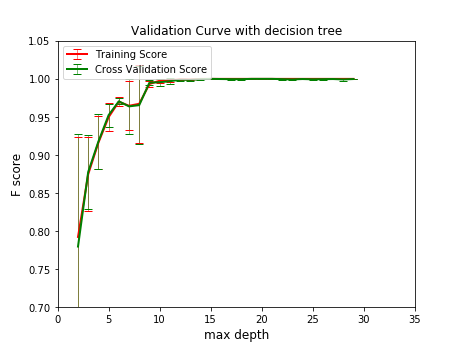
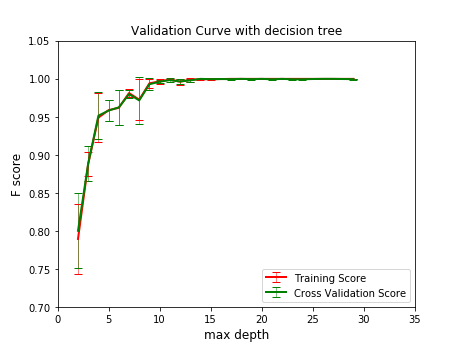
f1 score to accuracy

diff --git a/analyze_mushroom.py b/analyze_mushroom.py
@@ -51,7 +51,7 @@ def tune_kNN(X, y):
     # using validation_curve to find the optimal k value
     k_range = range(1, 11)
     train_scores, cv_scores = validation_curve(KNeighborsClassifier(), X, y, param_name='n_neighbors',
-                                               param_range=k_range, cv=folds, scoring='f1', n_jobs=4)
+                                               param_range=k_range, cv=folds, scoring='accuracy', n_jobs=4)
     train_scores_mean = np.mean(train_scores, axis=1)
     train_scores_std = np.std(train_scores, axis=1)
     cv_scores_mean = np.mean(cv_scores, axis=1)
@@ -69,15 +69,15 @@ def tune_kNN(X, y):
 
     plot_curve(k_range, train_scores_mean, train_scores_std, cv_scores_mean, cv_scores_std,
                title='Validation Curve with k-nearest neighbors', x_label='k',
-               x_lim=(0, 11), y_lim=(0.75, 1.05))
+               x_lim=(0, 11), y_lim=(0.95, 1.05))
 
     # generates learning curve
 
-    train_sizes = np.linspace(.1, 1.0, 10)
+    train_sizes = np.linspace(.1, 1.0, 5)
     # print train_sizes.shape
 
     train_sizes, train_scores_lc, cv_scores_lc = learning_curve(
-        KNeighborsClassifier(optimal_k), X, y, cv=folds, n_jobs=4, scoring='f1', train_sizes=train_sizes)
+        KNeighborsClassifier(optimal_k), X, y, cv=folds, n_jobs=4, scoring='accuracy', train_sizes=train_sizes)
 
     train_scores_mean_lc = np.mean(train_scores_lc, axis=1)
     train_scores_std_lc = np.std(train_scores_lc, axis=1)
@@ -91,7 +91,7 @@ def tune_kNN(X, y):
 
     plot_curve(train_sizes, train_scores_mean_lc, train_scores_std_lc, cv_scores_mean_lc, cv_scores_std_lc,
                title='Learning Curve with k-nearest neighbors (k=%d)' % (optimal_k), x_label='number of samples',
-               x_lim=(0, 12000), y_lim=(0.75, 1.05))
+               x_lim=(0, 12000), y_lim=(0.95, 1.05))
 
     return {'n_neighbors': optimal_k}
 
@@ -105,7 +105,7 @@ def tune_SVM_1(X, y):
     # c_range = [0.001, 0.01, 0.1]
 
     train_scores, cv_scores = validation_curve(SVC(kernel='linear'), X, y, param_name='C',
-                                               param_range=c_range, cv=folds, scoring='f1', n_jobs=4)
+                                               param_range=c_range, cv=folds, scoring='accuracy', n_jobs=4)
     train_scores_mean = np.mean(train_scores, axis=1)
     train_scores_std = np.std(train_scores, axis=1)
     cv_scores_mean = np.mean(cv_scores, axis=1)
@@ -130,7 +130,7 @@ def tune_SVM_1(X, y):
     train_sizes = np.linspace(.1, 1.0, 10)
 
     train_sizes, train_scores_lc, cv_scores_lc = learning_curve(SVC(kernel='linear'), X, y, cv=folds,
-                                                                n_jobs=4, scoring='f1', train_sizes=train_sizes)
+                                                                n_jobs=4, scoring='accuracy', train_sizes=train_sizes)
 
     train_scores_mean_lc = np.mean(train_scores_lc, axis=1)
     train_scores_std_lc = np.std(train_scores_lc, axis=1)
@@ -161,7 +161,7 @@ def tune_SVM_2(X, y):
     print gamma_range
 
     param_grid = dict(gamma=gamma_range, C=c_range)
-    grid = GridSearchCV(SVC(), param_grid=param_grid, cv=cv_s, scoring='f1', n_jobs=4)
+    grid = GridSearchCV(SVC(), param_grid=param_grid, cv=cv_s, scoring='accuracy', n_jobs=4)
     grid.fit(X, y)
 
     scores = grid.cv_results_['mean_test_score'].reshape(len(c_range), len(gamma_range))
@@ -170,7 +170,7 @@ def tune_SVM_2(X, y):
 
     # Draw heatmap of the cross validation accuracy as a function of gamma and C
     plot_heatmap(scores, gamma_range, c_range, vmin=0.2, mid=0.8, xlabel='gamma', ylabel='C',
-                 title='Cross Validation f1 score with RBF SVM')
+                 title='Cross Validation accuracy score with RBF SVM')
 
     # plot learning curve
     optimal_gamma = grid.best_params_['gamma']
@@ -178,7 +178,7 @@ def tune_SVM_2(X, y):
     train_sizes = np.linspace(.1, 1.0, 5)
 
     train_sizes, train_scores_lc, cv_scores_lc = learning_curve(SVC(gamma=optimal_gamma, C=optimal_c), X, y, cv=cv_s,
-                                                                n_jobs=4, scoring='f1', train_sizes=train_sizes)
+                                                                n_jobs=4, scoring='accuracy', train_sizes=train_sizes)
     train_scores_mean_lc = np.mean(train_scores_lc, axis=1)
     train_scores_std_lc = np.std(train_scores_lc, axis=1)
     cv_scores_mean_lc = np.mean(cv_scores_lc, axis=1)
@@ -230,7 +230,7 @@ def tune_decisionTree(X, y):
     depth_range = range(2, 30)
     train_scores, cv_scores = validation_curve(DecisionTreeClassifier(max_features='auto'), X, y,
                                                param_name='max_depth',
-                                               param_range=depth_range, cv=folds, scoring='f1', n_jobs=4)
+                                               param_range=depth_range, cv=folds, scoring='accuracy', n_jobs=4)
     train_scores_mean = np.mean(train_scores, axis=1)
     train_scores_std = np.std(train_scores, axis=1)
     cv_scores_mean = np.mean(cv_scores, axis=1)
@@ -251,11 +251,11 @@ def tune_decisionTree(X, y):
                x_lim=(0, 35), y_lim=(0.70, 1.05))
 
     # generates learning curve
-    train_sizes = np.linspace(.1, 1.0, 10)  # print train_sizes.shape
+    train_sizes = np.linspace(.1, 1.0, 5)  # print train_sizes.shape
 
     train_sizes, train_scores_lc, cv_scores_lc = learning_curve(
         DecisionTreeClassifier(max_features='auto', max_depth=optimal_max_depth),
-        X, y, cv=folds, n_jobs=4, scoring='f1', train_sizes=train_sizes)
+        X, y, cv=folds, n_jobs=4, scoring='accuracy', train_sizes=train_sizes)
     train_scores_mean_lc = np.mean(train_scores_lc, axis=1)
     train_scores_std_lc = np.std(train_scores_lc, axis=1)
     cv_scores_mean_lc = np.mean(cv_scores_lc, axis=1)
@@ -268,7 +268,7 @@ def tune_decisionTree(X, y):
 
     plot_curve(train_sizes, train_scores_mean_lc, train_scores_std_lc, cv_scores_mean_lc, cv_scores_std_lc,
                title='Learning Curve with decision tree (max depth = %d)' % (optimal_max_depth),
-               x_label='number of samples', x_lim=(0, 12000), y_lim=(0.70, 1.05))
+               x_label='number of samples', x_lim=(0, 12000), y_lim=(0.95, 1.05))
 
     return {'max_depth': optimal_max_depth}
 
@@ -285,16 +285,16 @@ def tune_boost(X, y):
 
     param_grid = dict(n_estimators=n_estimators_range, learning_rate=rate_range)
     base = DecisionTreeClassifier(max_depth=3)
-    grid = GridSearchCV(AdaBoostClassifier(base_estimator=base), param_grid=param_grid, cv=cv_s, scoring='f1', n_jobs=4)
+    grid = GridSearchCV(AdaBoostClassifier(base_estimator=base), param_grid=param_grid, cv=cv_s, scoring='accuracy', n_jobs=4)
     grid.fit(X, y)
 
     scores = grid.cv_results_['mean_test_score'].reshape(len(rate_range), len(n_estimators_range))
     # print scores
-    print("The best parameters are %s with a F score of %0.5f" % (grid.best_params_, grid.best_score_))
+    print("The best parameters are %s with an accuracy of %0.5f" % (grid.best_params_, grid.best_score_))
 
     # Draw heatmap of the cross validation accuracy as a function of gamma and C
     plot_heatmap(scores, n_estimators_range, rate_range, vmin=0.5, mid=0.85, xlabel='n_estimators',
-                 ylabel='learning_rate', title='Cross Validation f1 score with Adaboosting')
+                 ylabel='learning_rate', title='Cross Validation accuracy score with Adaboosting')
 
     # plot learning curve
     optimal_n_estimators = grid.best_params_['n_estimators']
@@ -303,7 +303,7 @@ def tune_boost(X, y):
 
     train_sizes, train_scores_lc, cv_scores_lc = learning_curve(
         AdaBoostClassifier(base_estimator=base, n_estimators=optimal_n_estimators, learning_rate=optimal_lr),
-        X, y, cv=cv_s, n_jobs=4, scoring='f1', train_sizes=train_sizes)
+        X, y, cv=cv_s, n_jobs=4, scoring='accuracy', train_sizes=train_sizes)
     train_scores_mean_lc = np.mean(train_scores_lc, axis=1)
     train_scores_std_lc = np.std(train_scores_lc, axis=1)
     cv_scores_mean_lc = np.mean(cv_scores_lc, axis=1)
@@ -334,16 +334,16 @@ def tune_NN(X, y):
     print alpha_range
 
     param_grid = dict(hidden_layer_sizes=hidden_layer_sizes_range, alpha=alpha_range)
-    grid = GridSearchCV(MLPClassifier(), param_grid=param_grid, cv=cv_s, scoring='f1', n_jobs=4)
+    grid = GridSearchCV(MLPClassifier(), param_grid=param_grid, cv=cv_s, scoring='accuracy', n_jobs=4)
     grid.fit(X, y)
 
     scores = grid.cv_results_['mean_test_score'].reshape(len(alpha_range), len(hidden_layer_sizes_range))
     # print scores
-    print("The best parameters are %s with a F score of %0.5f" % (grid.best_params_, grid.best_score_))
+    print("The best parameters are %s with an accuracy of %0.5f" % (grid.best_params_, grid.best_score_))
 
     # Draw heatmap of the cross validation accuracy as a function of gamma and C
     plot_heatmap(scores, n_hidden_units, alpha_range, vmin=0.75, mid=0.86, xlabel='n_hidden_units',
-                 ylabel='alpha', title='Cross Validation f1 score with Neuron Network')
+                 ylabel='alpha', title='Cross Validation accuracy score with Neuron Network')
 
     # plot learning curve
     optimal_hls = grid.best_params_['hidden_layer_sizes']
@@ -352,7 +352,7 @@ def tune_NN(X, y):
 
     train_sizes, train_scores_lc, cv_scores_lc = learning_curve(
         MLPClassifier(hidden_layer_sizes=optimal_hls, alpha=optimal_alpha),
-        X, y, cv=folds, n_jobs=4, scoring='f1', train_sizes=train_sizes)
+        X, y, cv=folds, n_jobs=4, scoring='accuracy', train_sizes=train_sizes)
     train_scores_mean_lc = np.mean(train_scores_lc, axis=1)
     train_scores_std_lc = np.std(train_scores_lc, axis=1)
     cv_scores_mean_lc = np.mean(cv_scores_lc, axis=1)
@@ -392,7 +392,7 @@ def plot_curve(x_data, train_score_mean, train_score_std, cv_score_mean, cv_scor
     plt.title(kwargs['title'])
     plt.xlabel(kwargs['x_label'], fontsize=12)
     plt.xlim(kwargs['x_lim'])
-    plt.ylabel('F score', fontsize=12)
+    plt.ylabel('Accuracy', fontsize=12)
     plt.ylim(kwargs['y_lim'])
 
     plt.errorbar(x_data, train_score_mean, yerr=train_score_std, label='Training Score',
@@ -401,7 +401,7 @@ def plot_curve(x_data, train_score_mean, train_score_std, cv_score_mean, cv_scor
     plt.errorbar(x_data, cv_score_mean, yerr=cv_score_std, label='Cross Validation Score',
                  color='green', linewidth=2, elinewidth=0.5, capsize=4)
 
-    plt.legend(loc='upper left')
+    plt.legend(loc='lower right')
     figure_name = kwargs['title'] + '.png'
     plt.savefig(os.path.join('exported figures/mushroom', figure_name), dpi=72)
     plt.show()
@@ -430,11 +430,10 @@ if __name__ == '__main__':
 
     X_train, X_test, y_train, y_test = train_test_split(X_onehot, y_binary, test_size=0.3, random_state=0)
 
-    #para_kNN = tune_kNN(X_train, y_train)
+    para_kNN = tune_kNN(X_train, y_train)
+    para_tree = tune_decisionTree(X_train, y_train)
     # para_linear_SVM = tune_SVM_1(X_train, y_train)
     # para_RBF_SVM = tune_SVM_2(X_train, y_train)
-    # print para_RBF_SVM
-    para_tree = tune_decisionTree(X_train, y_train)
     # para_boost = tune_boost(X_train ,y_train)
     # para_NN = tune_NN(X_train, y_train)
 
